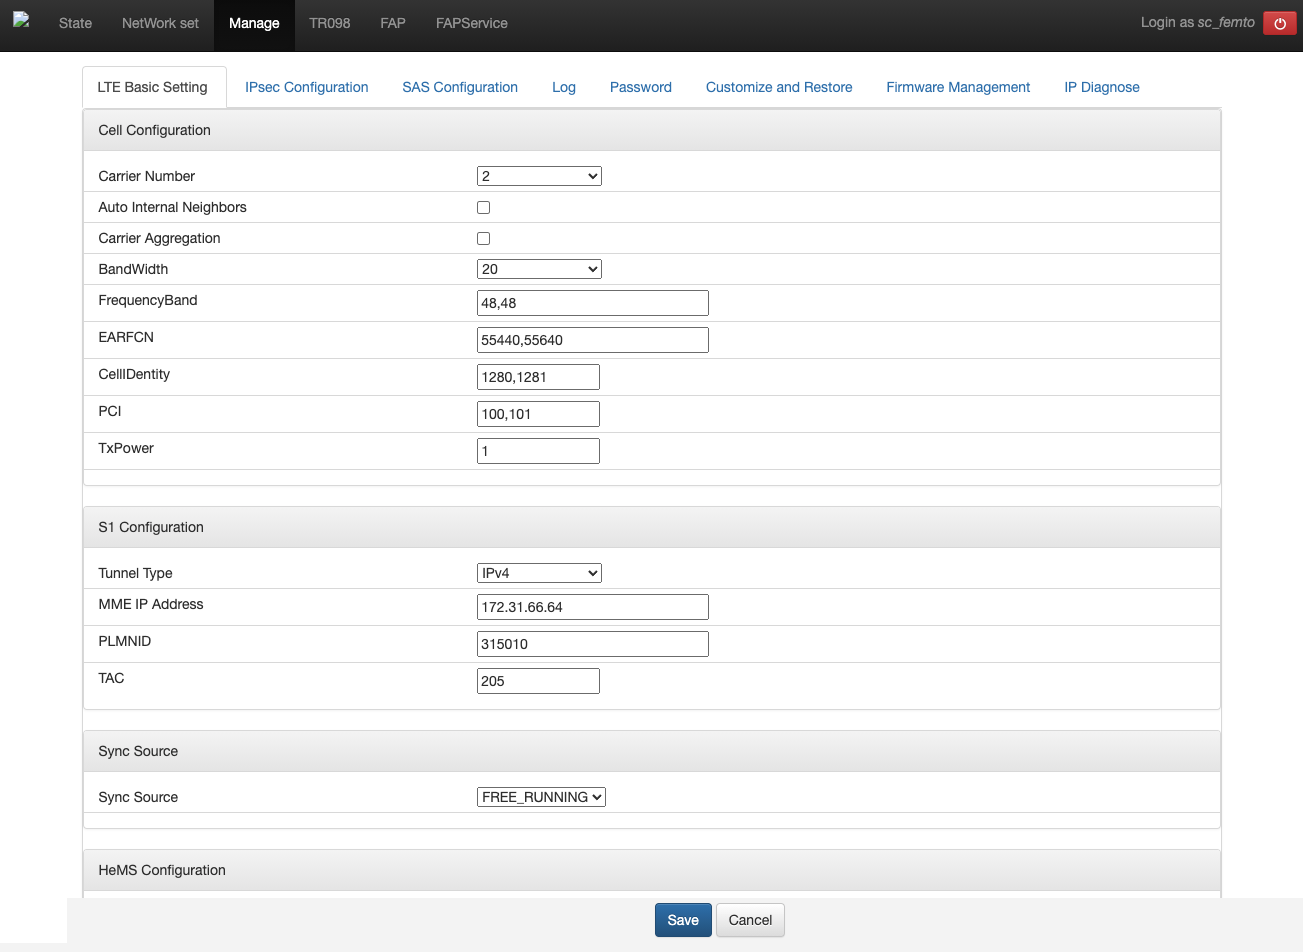
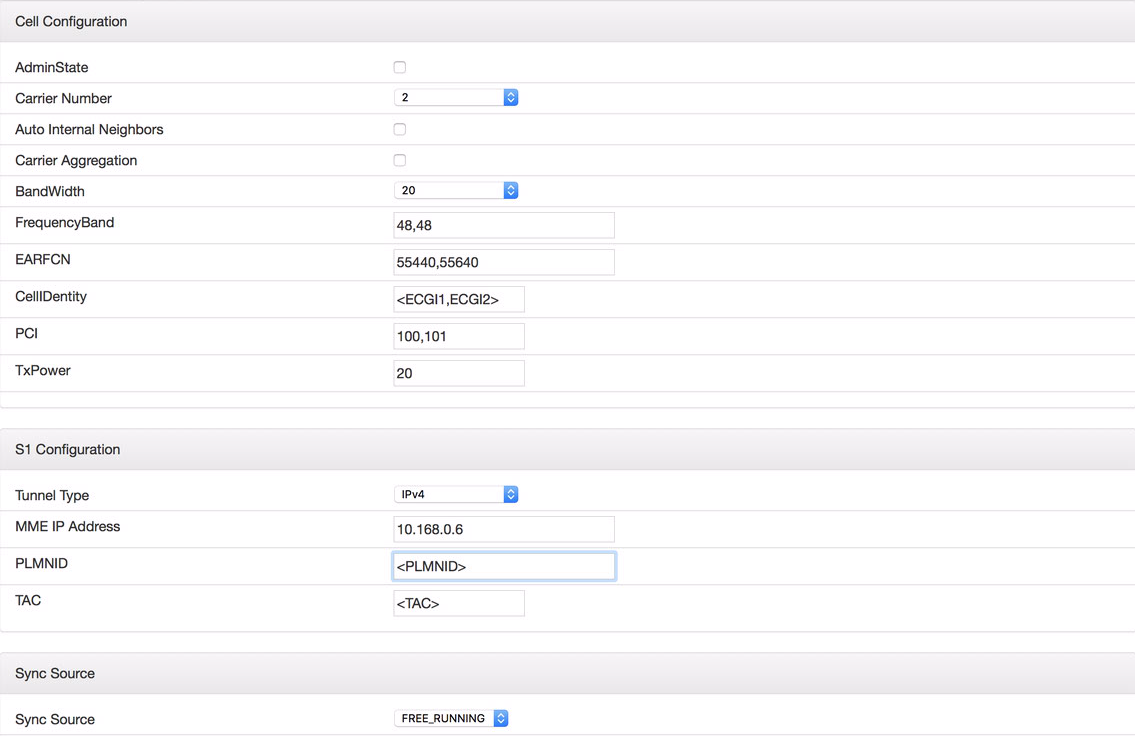
Update eNB installation guide
- Update screenshot with latest information
- Update note about `CellId` and `TAC` assignment
- Add a note about `CellIdentity` field

diff --git a/edge_deployment/enb_installation.rst b/edge_deployment/enb_installation.rst
@@ -29,8 +29,8 @@ Collect the following information:
 * Cell ID
 
 .. warning::
-  ``Cell ID`` and ``TAC`` are critical parameters and the values must
-  be assigned the by OPs team.
+  ``Cell ID`` and ``TAC`` are critical parameters that need to be globally unique.
+  Please get the assigned value from OPs team.
 
 Connect the eNB
 ---------------
@@ -84,6 +84,9 @@ Click ``Save`` at the bottom after making the changes.
 * PLMNID: ``315010``
 * Sync Source: ``FREE_RUNNING``
 * Enable CWMP: ``unchecked``
+
+.. note::
+  E-UTRAN Cell Global Identifier (ECGI) should be used for the `CellIdentity` field
 
 Other Settings
 --------------
